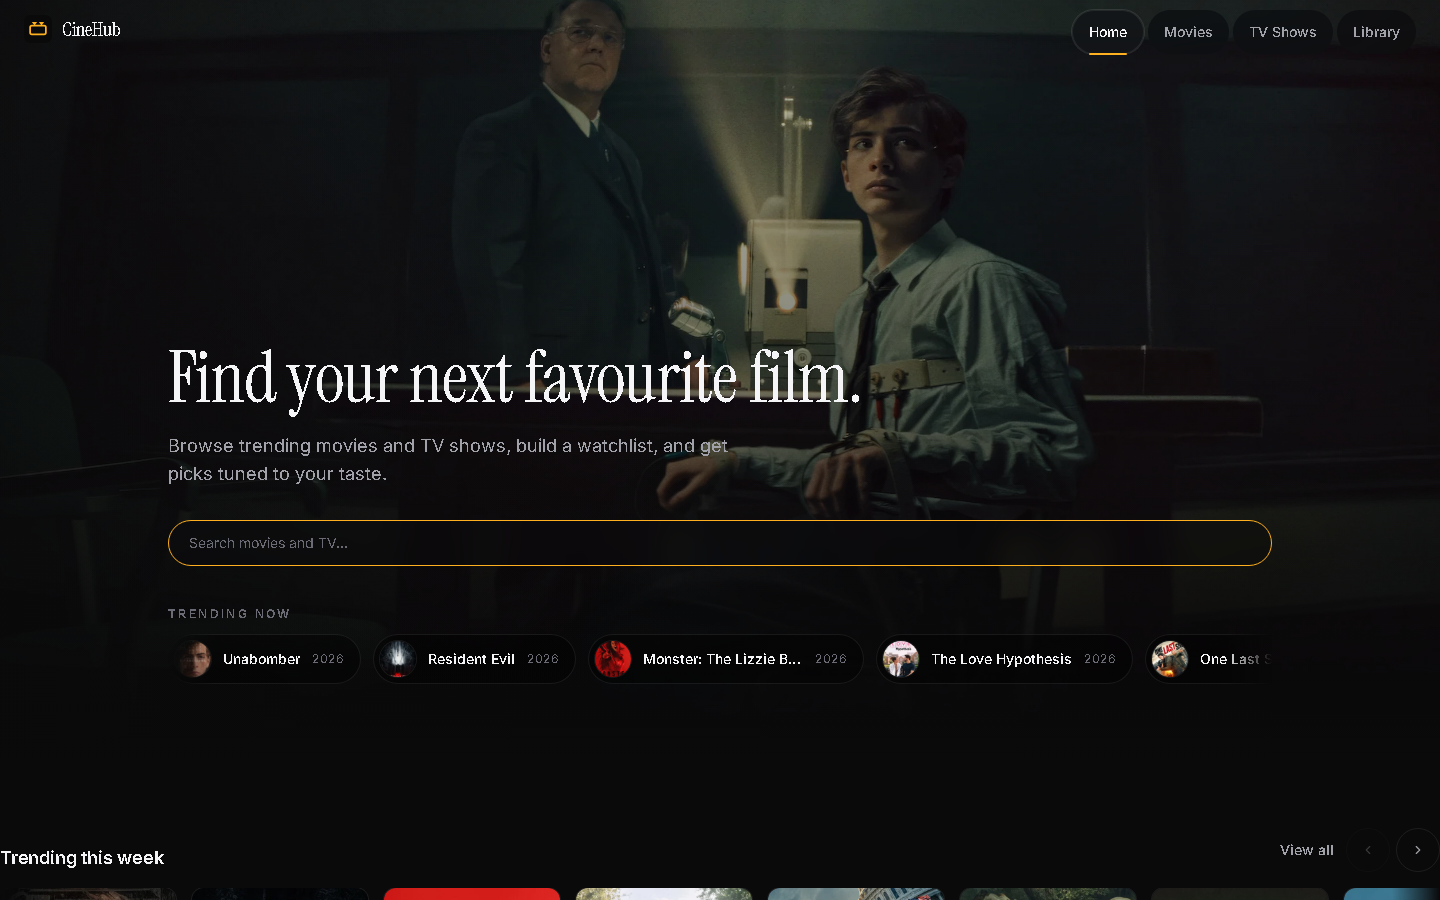
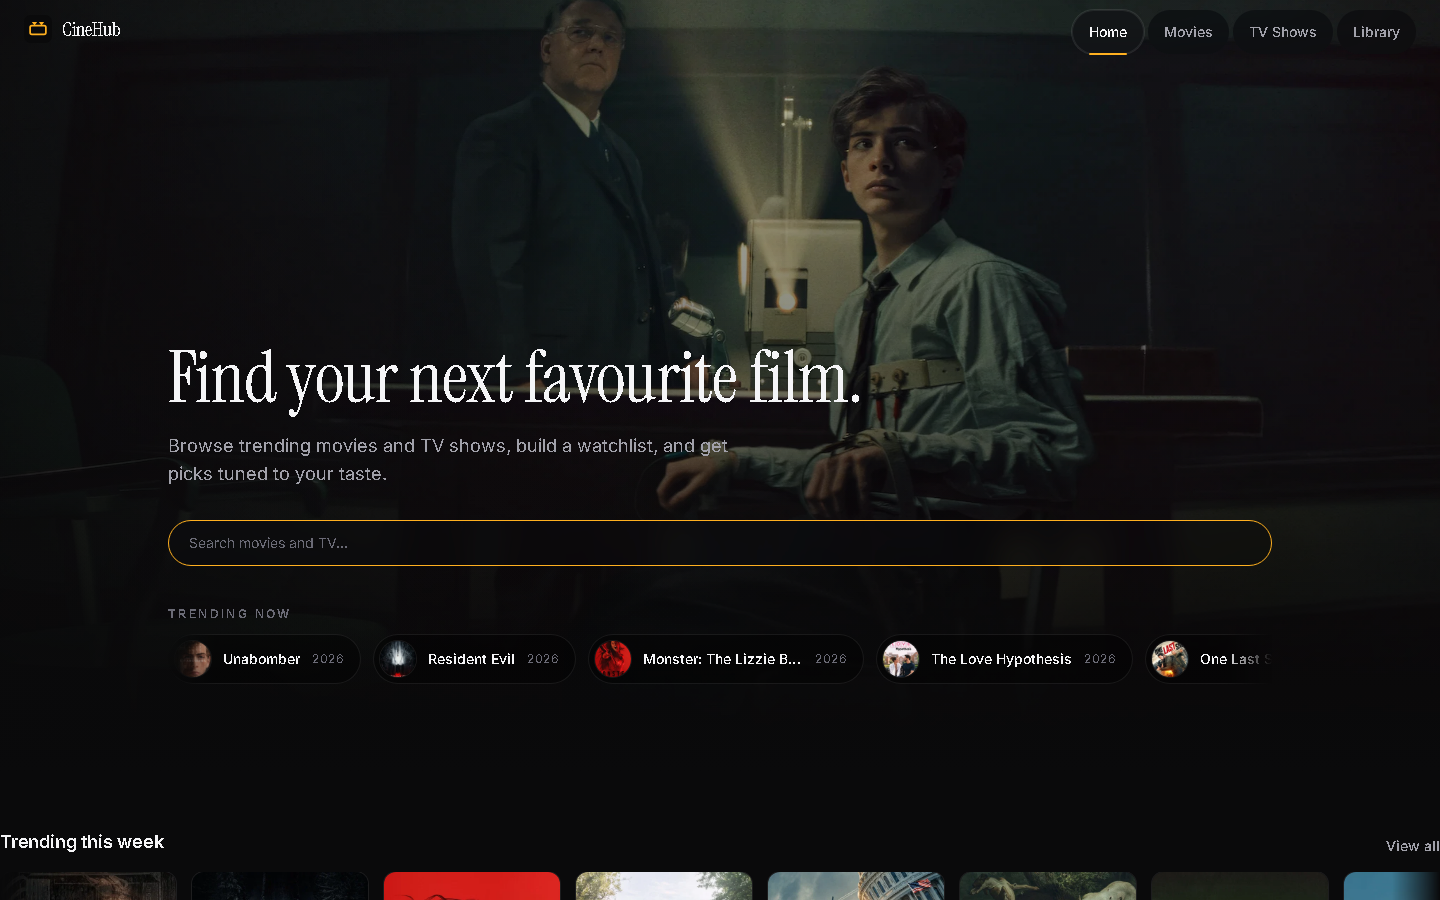
fix: rail arrows visible on all screens; correct scroll state on load

Changed region(s): [[0.25, 0.9644, 0.8125, 1.0], [0.0, 0.9333, 0.125, 1.0], [0.9375, 0.9333, 1.0, 0.9956]]

diff --git a/src/components/Rail.jsx b/src/components/Rail.jsx
@@ -1,4 +1,4 @@
-import { useRef, useState, useCallback } from "react";
+import { useRef, useState, useCallback, useEffect } from "react";
 import { Link } from "react-router-dom";
 import PosterCard from "./PosterCard.jsx";
 import { RailSkeleton } from "./Skeleton.jsx";
@@ -6,14 +6,23 @@ import { RailSkeleton } from "./Skeleton.jsx";
 export default function Rail({ title, items = [], size = "md", showRating = true, href, loading = false, skeletonCount = 8 }) {
   const railRef = useRef(null);
   const [canScrollLeft, setCanScrollLeft] = useState(false);
-  const [canScrollRight, setCanScrollRight] = useState(true);
+  const [canScrollRight, setCanScrollRight] = useState(false);
+  const [hasOverflow, setHasOverflow] = useState(false);
 
   const checkScroll = useCallback(() => {
     const el = railRef.current;
     if (!el) return;
-    setCanScrollLeft(el.scrollLeft > 8);
-    setCanScrollRight(el.scrollLeft < el.scrollWidth - el.clientWidth - 8);
+    const overflow = el.scrollWidth > el.clientWidth + 8;
+    setHasOverflow(overflow);
+    setCanScrollLeft(overflow && el.scrollLeft > 8);
+    setCanScrollRight(overflow && el.scrollLeft < el.scrollWidth - el.clientWidth - 8);
   }, []);
+
+  useEffect(() => {
+    checkScroll();
+    window.addEventListener("resize", checkScroll);
+    return () => window.removeEventListener("resize", checkScroll);
+  }, [checkScroll, items.length, loading]);
 
   const scroll = (dir) => {
     const el = railRef.current;
@@ -35,21 +44,34 @@ export default function Rail({ title, items = [], size = "md", showRating = true
     <section className="group/rail space-y-4">
       <div className="flex items-end justify-between gap-4">
         <h2 className="text-lg font-semibold text-ink">{title}</h2>
-        <div className="flex items-center gap-3">
-          {href ? (
-            <Link to={href} className="shrink-0 text-sm font-medium text-muted transition hover:text-accent">
-              View all
-            </Link>
-          ) : null}
-          <div className="hidden gap-1.5 sm:flex">
+        {href ? (
+          <Link to={href} className="shrink-0 text-sm font-medium text-muted transition hover:text-accent">
+            View all
+          </Link>
+        ) : null}
+      </div>
+      <div className="relative">
+        <div
+          ref={railRef}
+          onScroll={checkScroll}
+          className="rail rail-mask -mx-4 flex gap-4 overflow-x-auto scroll-smooth px-4 pb-2 xs:mx-0 xs:px-0 sm:mx-0 sm:px-0"
+        >
+          {items.map((item) => (
+            <PosterCard key={`${item.id}-${item.title ?? item.name}`} item={item} size={size} showRating={showRating} />
+          ))}
+        </div>
+        {hasOverflow ? (
+          <>
             <button
               type="button"
               onClick={() => scroll(-1)}
               disabled={!canScrollLeft}
-              aria-label="Scroll left"
-              className="tap-target flex h-8 w-8 items-center justify-center rounded-full border border-border text-muted transition hover:border-faint hover:text-ink disabled:opacity-30 disabled:hover:border-border disabled:hover:text-muted"
+              aria-label={`Scroll ${title} left`}
+              className={`tap-target glass absolute -left-1 top-[38%] z-10 flex h-10 w-10 -translate-y-1/2 items-center justify-center rounded-full text-ink ring-1 ring-white/15 transition-all duration-300 sm:opacity-0 sm:group-hover/rail:opacity-100 ${
+                canScrollLeft ? "hover:scale-105" : "pointer-events-none opacity-0"
+              }`}
             >
-              <svg width="14" height="14" viewBox="0 0 24 24" fill="none" stroke="currentColor" strokeWidth="2" strokeLinecap="round" strokeLinejoin="round" aria-hidden="true">
+              <svg width="16" height="16" viewBox="0 0 24 24" fill="none" stroke="currentColor" strokeWidth="2.5" strokeLinecap="round" strokeLinejoin="round" aria-hidden="true">
                 <path d="M15 18l-6-6 6-6" />
               </svg>
             </button>
@@ -57,24 +79,17 @@ export default function Rail({ title, items = [], size = "md", showRating = true
               type="button"
               onClick={() => scroll(1)}
               disabled={!canScrollRight}
-              aria-label="Scroll right"
-              className="tap-target flex h-8 w-8 items-center justify-center rounded-full border border-border text-muted transition hover:border-faint hover:text-ink disabled:opacity-30 disabled:hover:border-border disabled:hover:text-muted"
+              aria-label={`Scroll ${title} right`}
+              className={`tap-target glass absolute -right-1 top-[38%] z-10 flex h-10 w-10 -translate-y-1/2 items-center justify-center rounded-full text-ink ring-1 ring-white/15 transition-all duration-300 sm:opacity-0 sm:group-hover/rail:opacity-100 ${
+                canScrollRight ? "hover:scale-105" : "pointer-events-none opacity-0"
+              }`}
             >
-              <svg width="14" height="14" viewBox="0 0 24 24" fill="none" stroke="currentColor" strokeWidth="2" strokeLinecap="round" strokeLinejoin="round" aria-hidden="true">
+              <svg width="16" height="16" viewBox="0 0 24 24" fill="none" stroke="currentColor" strokeWidth="2.5" strokeLinecap="round" strokeLinejoin="round" aria-hidden="true">
                 <path d="M9 18l6-6-6-6" />
               </svg>
             </button>
-          </div>
-        </div>
-      </div>
-      <div
-        ref={railRef}
-        onScroll={checkScroll}
-        className="rail rail-mask -mx-4 flex gap-4 overflow-x-auto px-4 pb-2 xs:mx-0 xs:px-0 sm:mx-0 sm:px-0"
-      >
-        {items.map((item) => (
-          <PosterCard key={`${item.id}-${item.title ?? item.name}`} item={item} size={size} showRating={showRating} />
-        ))}
+          </>
+        ) : null}
       </div>
     </section>
   );
